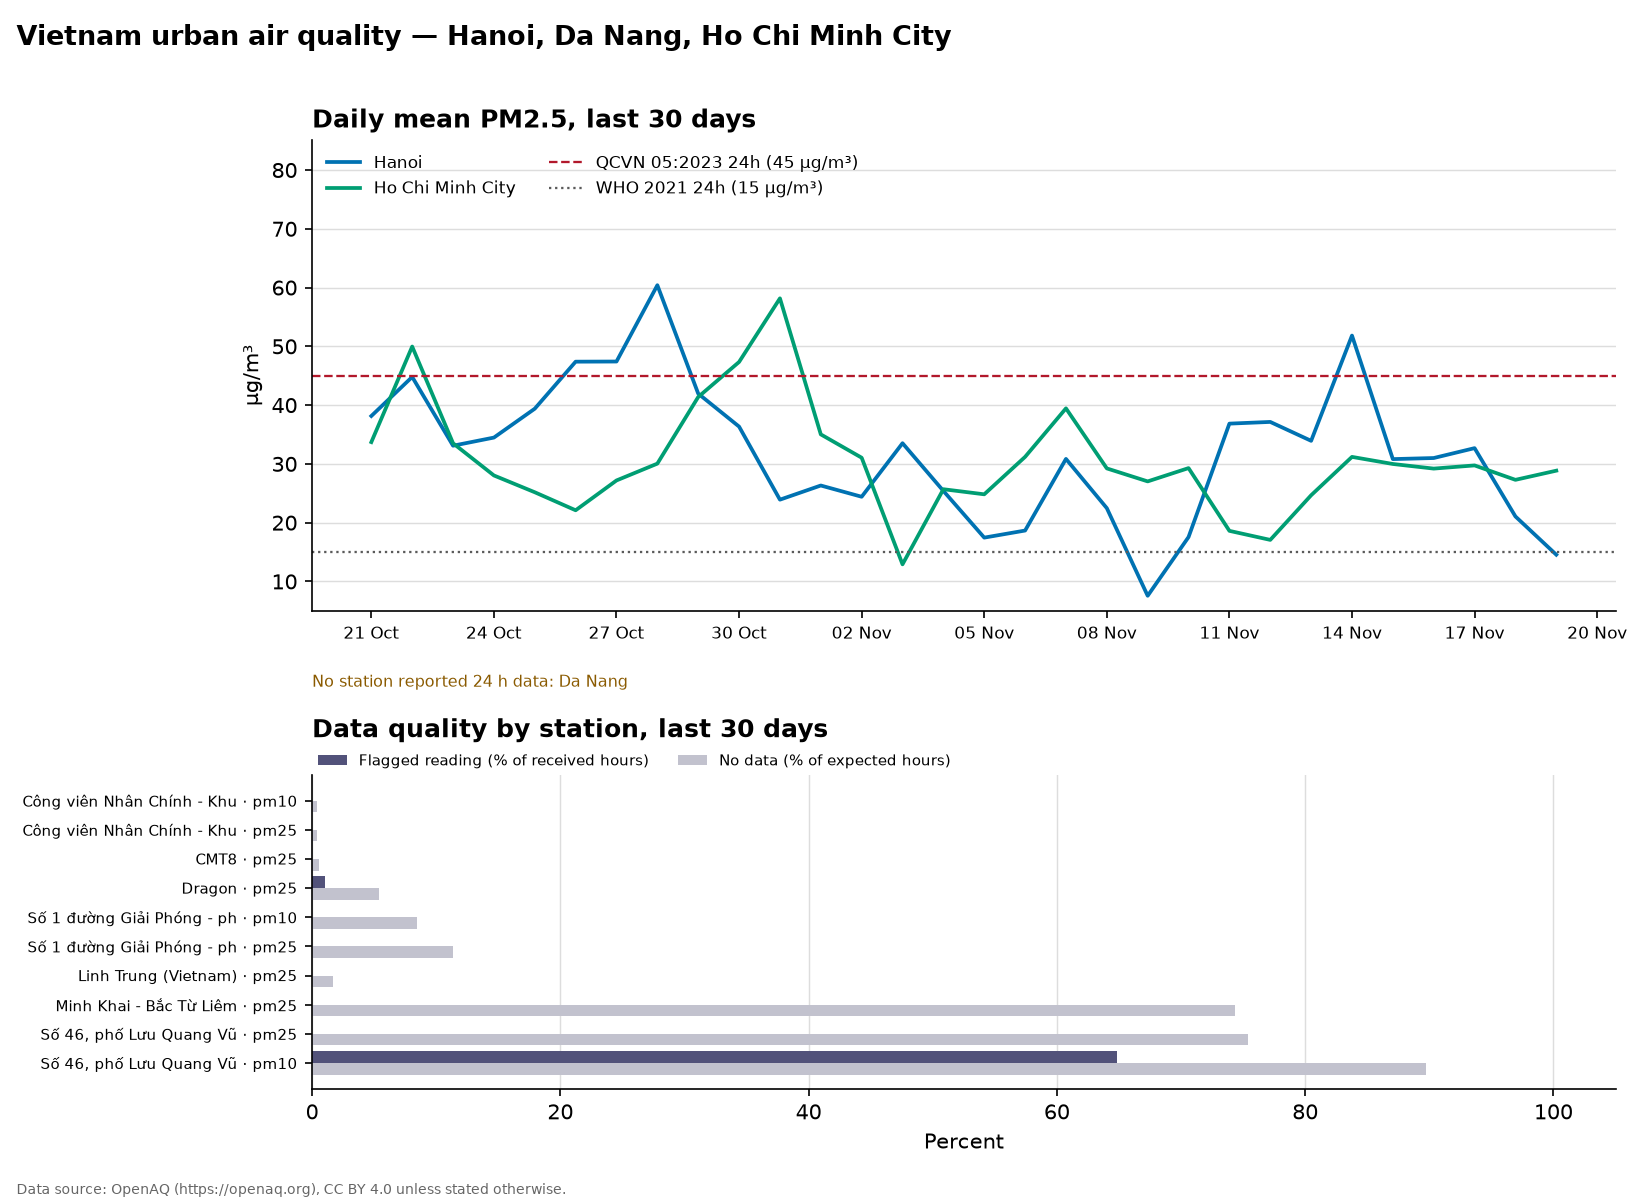
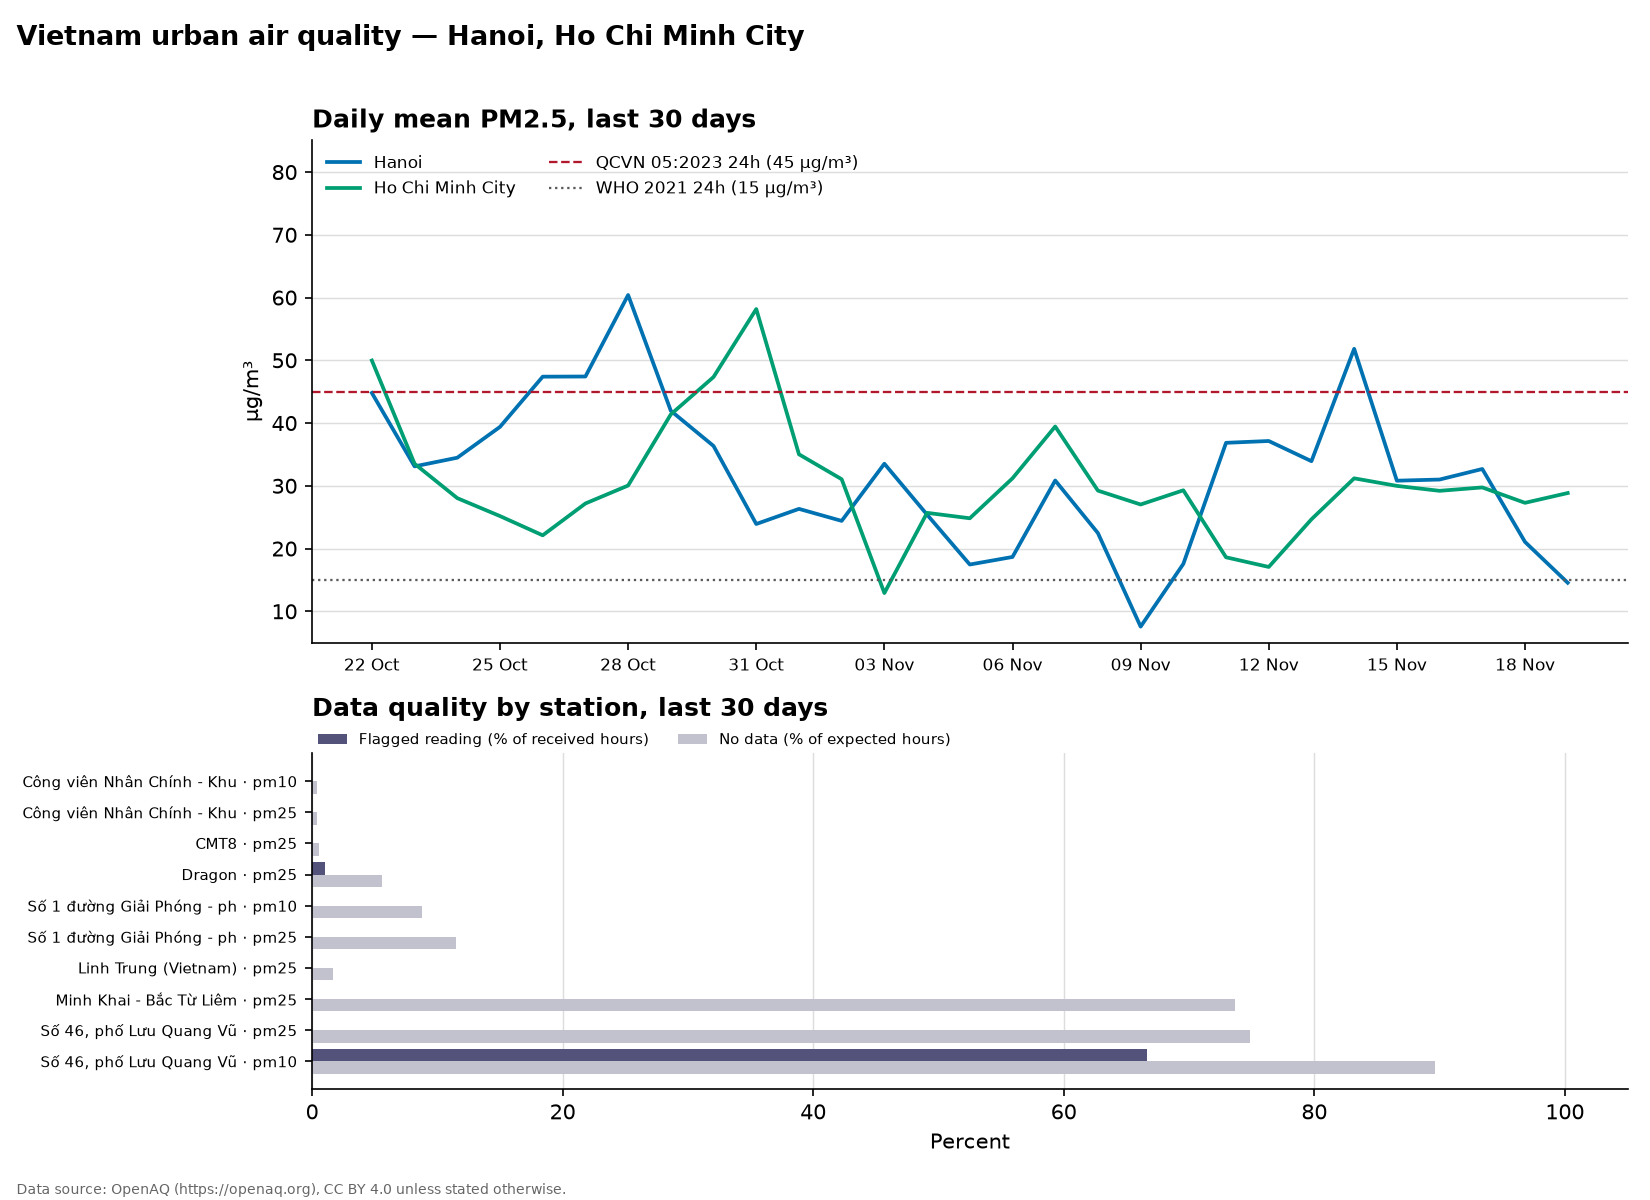
feat: drop Da Nang after measuring national coverage
All 63 Vietnamese OpenAQ locations were enumerated: 11 reported inside 90 days
and every one is in Hanoi or Ho Chi Minh City. Da Nang returns zero locations
within 25 km, and so does every other Vietnamese city tried, so a third city
cannot be sourced from this network. Listing it drew an empty series and implied
coverage that does not exist.

The chart title now derives from CITIES so it cannot drift from the data, and
aqetl discover makes the coverage claim reproducible.

diff --git a/src/aqetl/config.py b/src/aqetl/config.py
@@ -13,9 +13,12 @@ class City:
 
 # 25 km search radius around each city centre is the OpenAQ maximum for a
 # coordinate search that still returns city-scale stations.
+# Only these two have live OpenAQ stations. All 63 Vietnamese locations were
+# checked: 11 reported inside 90 days and every one sits in Hanoi or Ho Chi Minh
+# City. Da Nang returns exactly zero locations within 25 km, so listing it would
+# draw an empty series and imply coverage that does not exist.
 CITIES: tuple[City, ...] = (
     City("hanoi", "Hanoi", 21.0285, 105.8542),
-    City("danang", "Da Nang", 16.0544, 108.2022),
     City("hcmc", "Ho Chi Minh City", 10.8231, 106.6297),
 )
 

diff --git a/src/aqetl/chart.py b/src/aqetl/chart.py
@@ -179,7 +179,7 @@ def render(
 
     fig.text(0.01, 0.005, ATTRIBUTION, fontsize=6.5, color="#666666", ha="left")
     fig.suptitle(
-        "Vietnam urban air quality — Hanoi, Da Nang, Ho Chi Minh City",
+        "Vietnam urban air quality — " + ", ".join(c.name for c in CITIES),
         fontsize=13,
         fontweight="bold",
         x=0.01,

diff --git a/README.md b/README.md
@@ -1,10 +1,10 @@
 # Air Quality & Weather ETL — Vietnam
 
-Automated hourly air-quality pipeline for **Hanoi**, **Da Nang** and **Ho Chi Minh
-City**. A GitHub Action runs it twice a day, pulls real measurements from OpenAQ
-stations and meteorological data from Open-Meteo, applies QA/QC rules, benchmarks
-the result against **QCVN 05:2023/BTNMT** and **WHO 2021**, stores it as Parquet
-read by **DuckDB**, and refreshes the chart below. No local machine involved.
+Automated hourly air-quality pipeline for **Hanoi** and **Ho Chi Minh City**. A
+GitHub Action runs it twice a day, pulls real measurements from OpenAQ stations
+and meteorological data from Open-Meteo, applies QA/QC rules, benchmarks the
+result against **QCVN 05:2023/BTNMT** and **WHO 2021**, stores it as Parquet read
+by **DuckDB**, and refreshes the chart below. No local machine involved.
 
 ![30-day air quality trend and per-station data quality](charts/aq-30d.png)
 
@@ -34,9 +34,11 @@ This is the part most air-quality projects paper over.
 - **Only PM2.5 and PM10 are available.** No OpenAQ station in scope reports NO2
   or O3 for this window, so those parameters are configured but empty. The
   pipeline queries them; nothing comes back.
-- **Da Nang has no OpenAQ station within 25 km.** Not a bug and not a filter
-  problem — the city is simply uncovered on this network. The chart says so
-  rather than drawing a line through nothing.
+- **Only two cities exist on this network.** All 63 Vietnamese locations on
+  OpenAQ were checked: 11 reported inside a 90-day window, and every one of them
+  is in Hanoi or Ho Chi Minh City. Da Nang returns zero locations within 25 km;
+  so does every other Vietnamese city tried. `aqetl discover` reproduces this
+  ranking, so the claim is checkable rather than asserted.
 - **Station counts are small**: 5 in Hanoi, 5 in HCMC, with several reporting
   only part of the window. This is volunteer and research infrastructure, not a
   regulatory network.
@@ -195,7 +197,9 @@ actually changed. A zero-row extract exits non-zero rather than committing empty
 reports that look like a healthy run.
 
 `probe.yml` is a manual, read-only diagnostic that prints station coverage per
-city; it is how the Da Nang gap and the retired-station problem were found.
+city; it is how the Da Nang gap and the retired-station problem were found. It
+prints a per-station location table, which is the only way to tell "uncovered
+city" from "broken query".
 
 Add the key as a repository secret:
 
@@ -214,8 +218,10 @@ derived from ERA5.
 
 - **Two of the four targeted pollutants have no data** in this region on OpenAQ.
   The pipeline supports them; the network does not supply them.
-- **Da Nang is uncovered.** Adding it would mean a different source, not a
-  different query.
+- **Two cities, one country.** OpenAQ's live Vietnamese network is Hanoi and
+  HCMC only. A third city would need a different source, not a different query —
+  and a model-derived source is not a station, so the QA/QC story would not
+  apply to it.
 - **Small station count**, with uneven uptime. City means are computed from
   whatever reported that day, so a day with one station is weaker evidence than
   a day with five.
